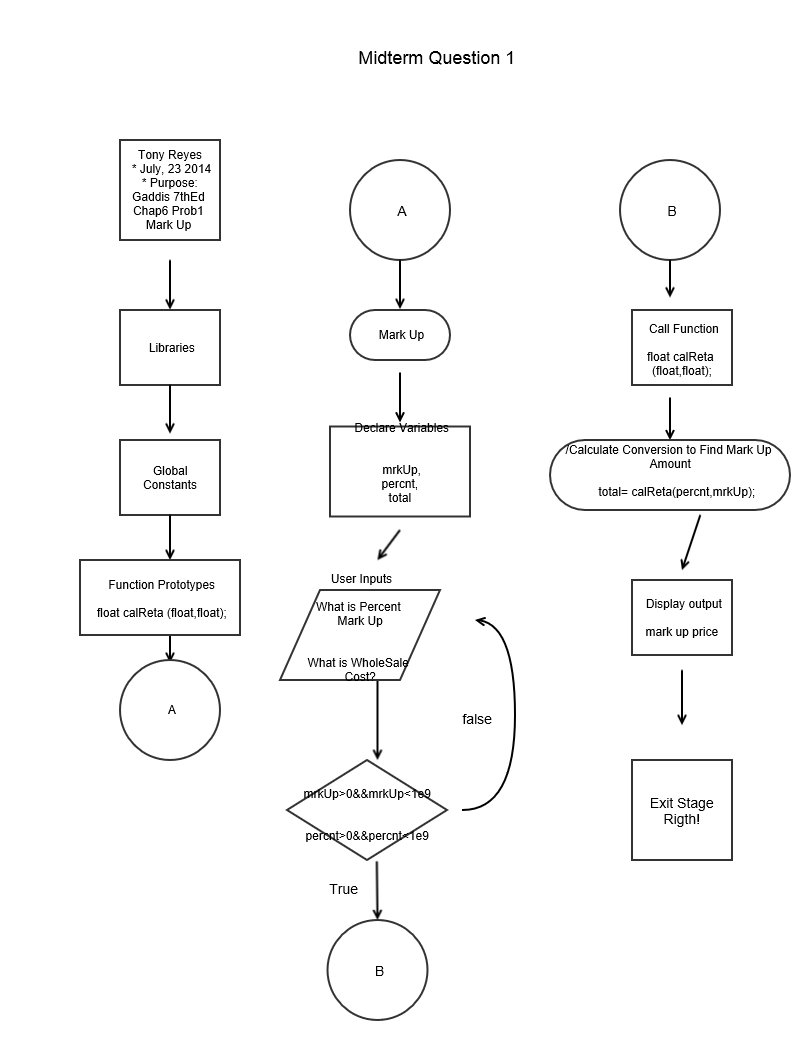
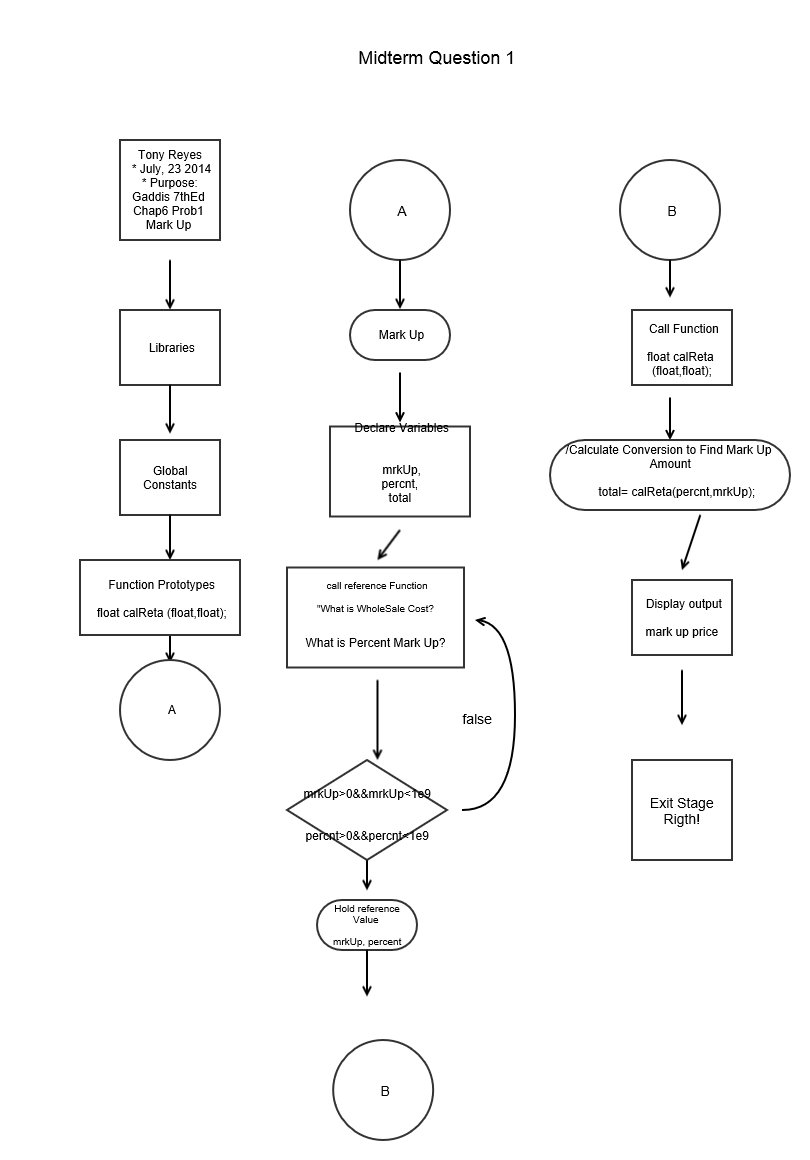
update

diff --git a/Homework/Assignment 5/Gaddis_Chap6_Prob1_mrkUp/main.cpp b/Homework/Assignment 5/Gaddis_Chap6_Prob1_mrkUp/main.cpp
@@ -19,32 +19,20 @@ using namespace std;
 
 
 //Function Prototypes
- float calReta (float,float);
+void mrkPer(float &mrkUp,float &percnt); 
+float calReta (float,float);
 
     //Execution Starts Here!
     int main(int argc, char** argv){
     //Declare Variables
     //Inputs
-    float mrkUp,            //User Enters Wholesale Cost
+    float mrkUp,        //User Enters Wholesale Cost
     percnt,            //User Enters Percent Mark Up
     total;            //Calculated Mark Up Price 
 
-    //Validate Wholesale Cost is Positive Number
-    do{
-        cout<<"What is WholeSale Cost?: "<<endl;
-        cin>>mrkUp;
-        if (mrkUp < 1)
-        cout<<"Enter Positive Number! "<<endl;
-    }while(!(mrkUp>0&&mrkUp<1e9));
-
-    //Validate Percent Mark Up is Positive Number
-    do{
-        cout<<"What is Percent Mark Up?: "<<endl;
-        cin>>percnt;
-        if (percnt < 1)
-        cout<<"Enter Positive Number! "<<endl;
-    }while(!(percnt>0&&percnt<1e9));
-
+    //Call Reference Function for Percent & Mark Up
+    mrkPer(percnt,mrkUp);
+    
     //Set Precision for Dollar Amount 
     cout<<setprecision(2)<<fixed;
 
@@ -55,12 +43,32 @@ using namespace std;
     cout<<"The Mark Up Price Is:($) "<<total<<endl;
     return 0;
 }
+//Reference Function of Values for Wholesale Cost &  Mark Up Percent
+//&mrkUP = Whole CSale Cost  &percent = Percent Mark Up
+void mrkPer(float &mrkUp,float &percnt)
+{
+//Validate Wholesale Cost is Positive Number
+    do{
+    cout<<"What is WholeSale Cost?: "<<endl;
+    cin>>mrkUp;
+    if (mrkUp < 1)
+        cout<<"Enter Positive Number! "<<endl;
+}while(!(mrkUp>0&&mrkUp<1e9));
+
+//Validate Percent Mark Up is Positive Number
+do{
+    cout<<"What is Percent Mark Up?: "<<endl;
+    cin>>percnt;
+    if (percnt < 1)
+    cout<<"Enter Positive Number! "<<endl;
+}while(!(percnt>0&&percnt<1e9));
+}
 //Price Mark Up Function
 //Formula Used Equate Amount
 //cost= Percent  mrk=Mark  
 float calReta(float cost,float mrk)
 {
-//Return Value
+//Return Mark up Value
 return (cost/100*mrk)+mrk;
 
 }
